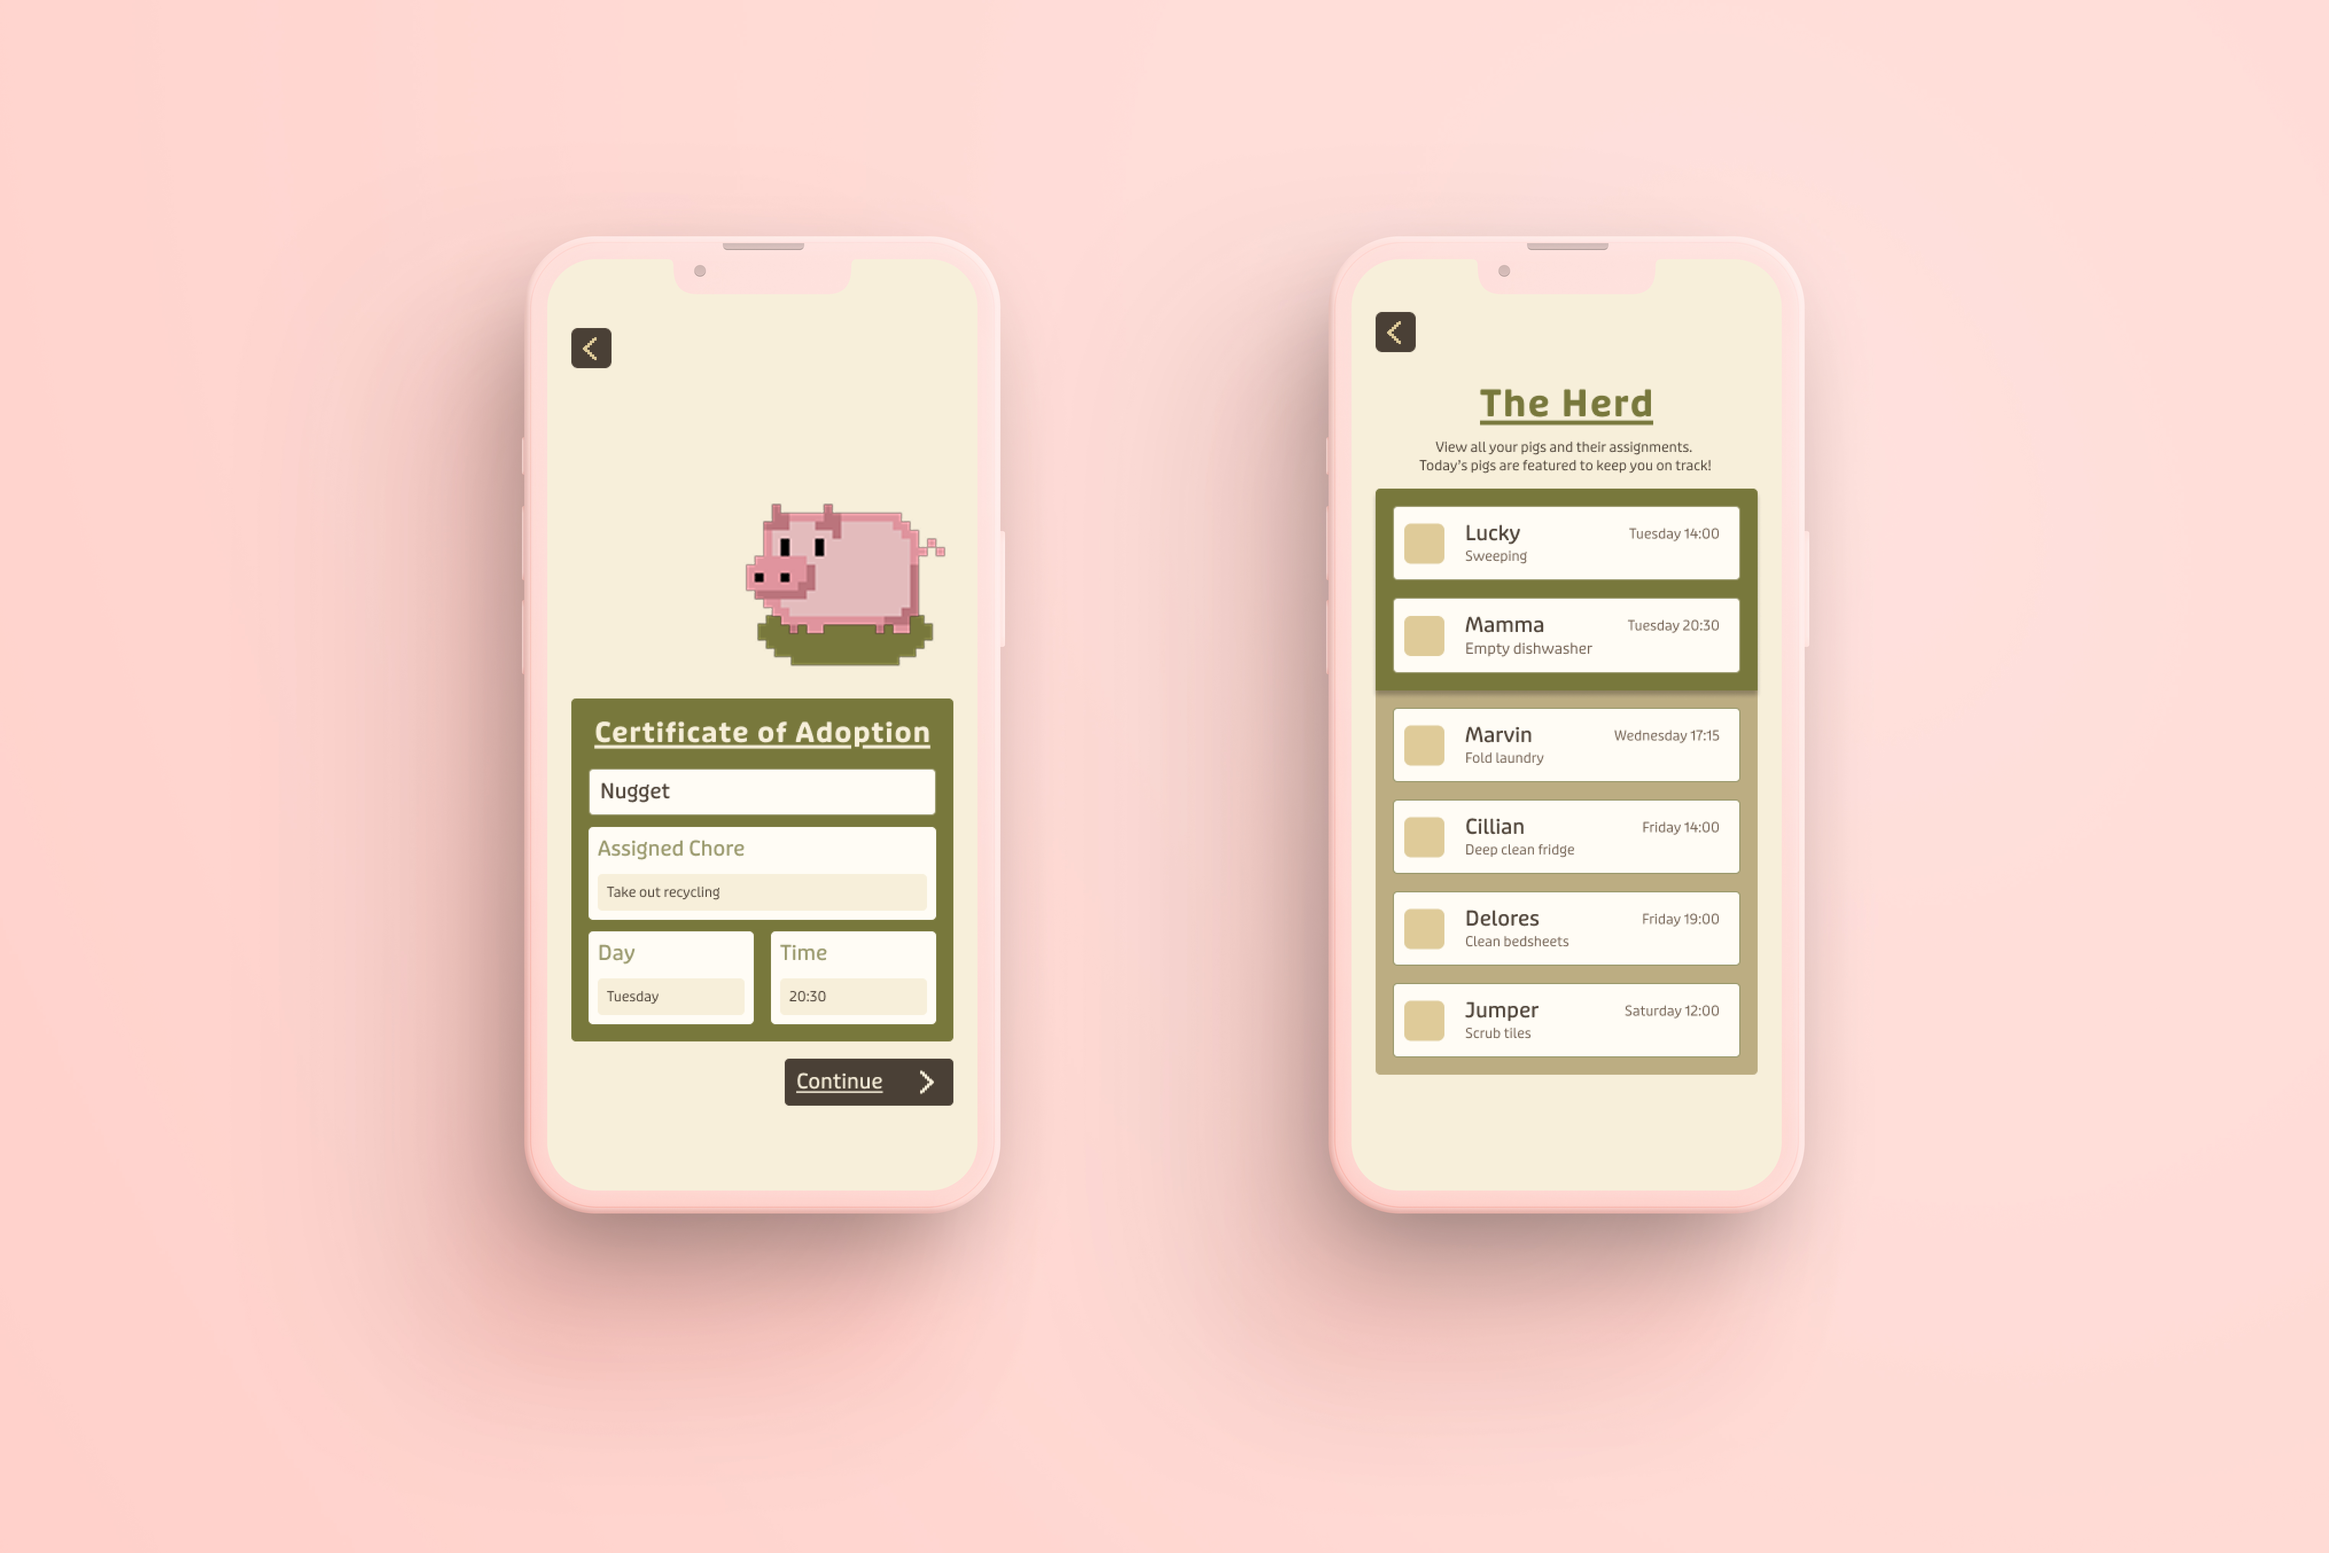
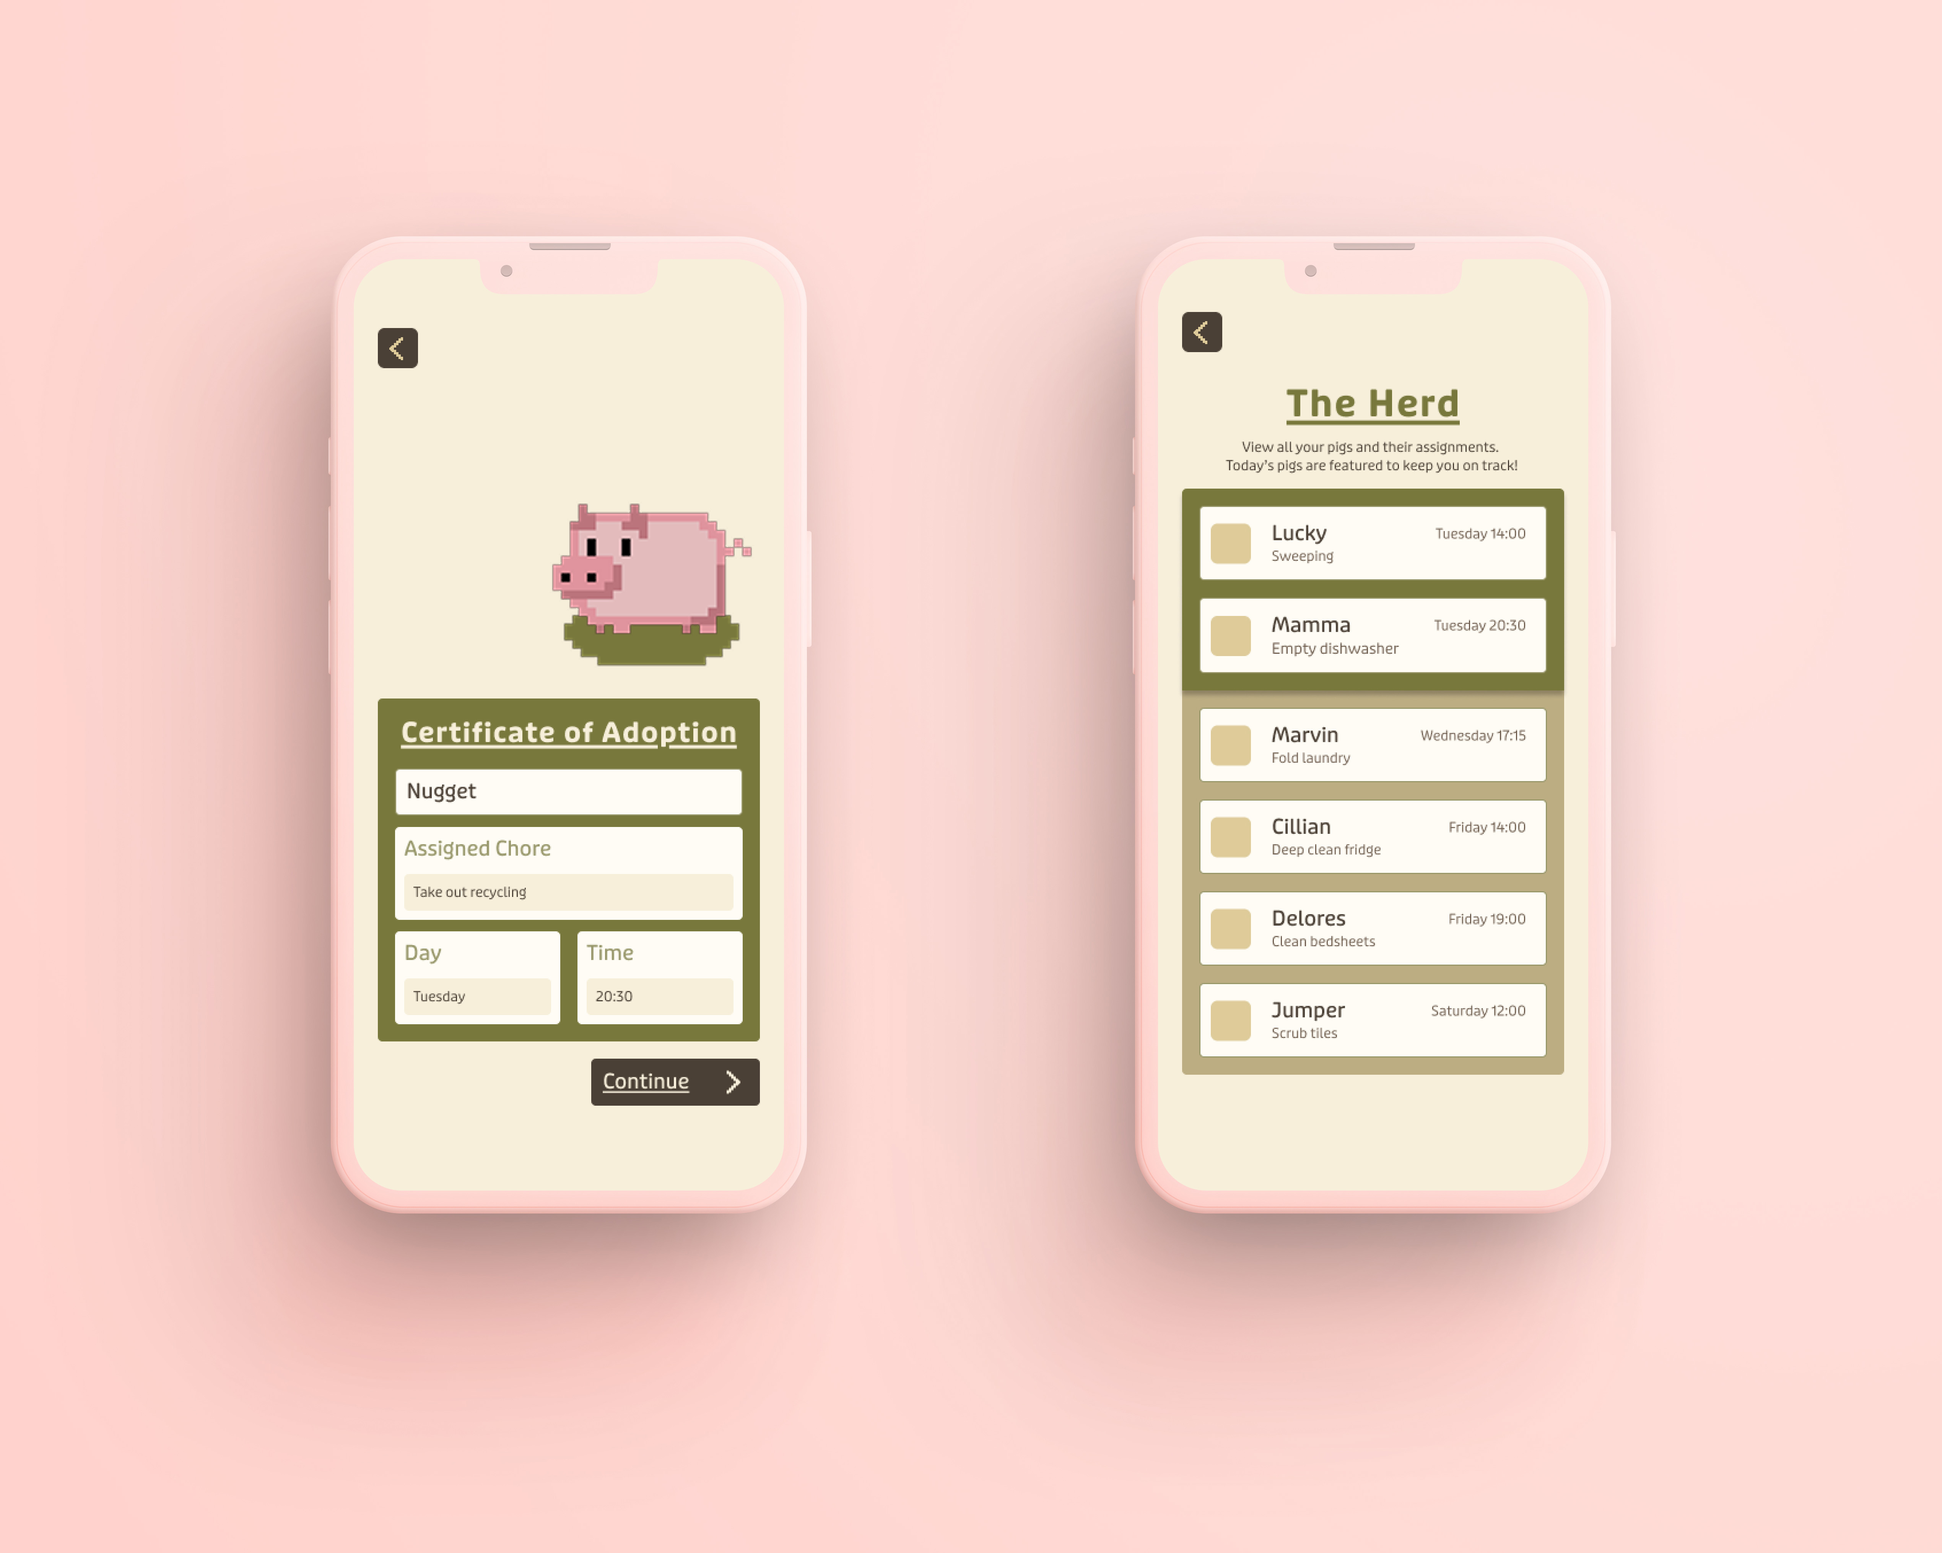
styled cards using flexbox layout; observed the changes in the grid based on the browser size, noted when it changed and the response.

diff --git a/css/styles.css b/css/styles.css
@@ -43,12 +43,14 @@ h2 {
     font-size: 1.5rem;
     color: #59402c;
     font-weight: bold;
+    padding: 10px;
 }
 
 h3 {
     font-size: 1.25rem;
     color: #59402c;
-    font-weight: normal; 
+    font-weight: bold; 
+    padding: 20px;
 }
 
 p {
@@ -68,7 +70,46 @@ p a:hover, a:focus {
     text-decoration: underline double;
     background-color: #d75e70;
     padding: 12px;
-    border-radius: 5px;
+    border-radius: 10px;
+}
+
+/* REQUIRED: card display */
+/* original browser size was 1425px; had the 4 cards displayed in a row. shrunk to 1295px; had 3 cards displayed in a row and 1 large card underneath. at 975px, it created a 2x2 grid with the cards. at 655px, it created a one-column grid.*/
+
+#projects-carousel {
+    display: flex;
+    flex-wrap: wrap;
+    gap: 20px;
+    justify-content: center;
+    padding: 10px;
+}
+
+#project-1 {
+    flex: 1;
+    flex-basis: 300px;
+    background-color:aliceblue;
+    border-radius: 25px;
+}
+
+#project-2 {
+    flex: 1;
+    flex-basis: 300px;
+    background-color:aliceblue;
+    border-radius: 25px;
+}
+
+#project-3 {
+    flex: 1;
+    flex-basis: 300px;
+    background-color:aliceblue;
+    border-radius: 25px;
+}
+
+#project-4 {
+    flex: 1;
+    flex-basis: 300px;
+    background-color:aliceblue;
+    border-radius: 25px;
 }
 
 /* REQUIRED: image styles */
@@ -76,13 +117,3 @@ img {
     max-width: 100%;
     height: auto;
 }
-
-/* REQUIRED: card display */
-#projects-carousel {
-    display: flex;
-    flex-wrap: wrap;
-    gap: 20px;
-    justify-content: center;
-    padding: 20px;
-}
-

diff --git a/index.html b/index.html
@@ -63,7 +63,7 @@
         <section id="about">
             <h2>About</h2>
             <p><!-- description of the designer; including schooling, experience, quirky interests --></p>
-            <img src="images/designer-portrait.jpg" alt="Designer Portrait"> <!-- portrait of the designer -->
+            <img src="images/emily-portrait.jpg" alt="Designer Portrait"> <!-- portrait of the designer -->
         </section>
 
         <!-- blog content section; embedded video links to social media -->
